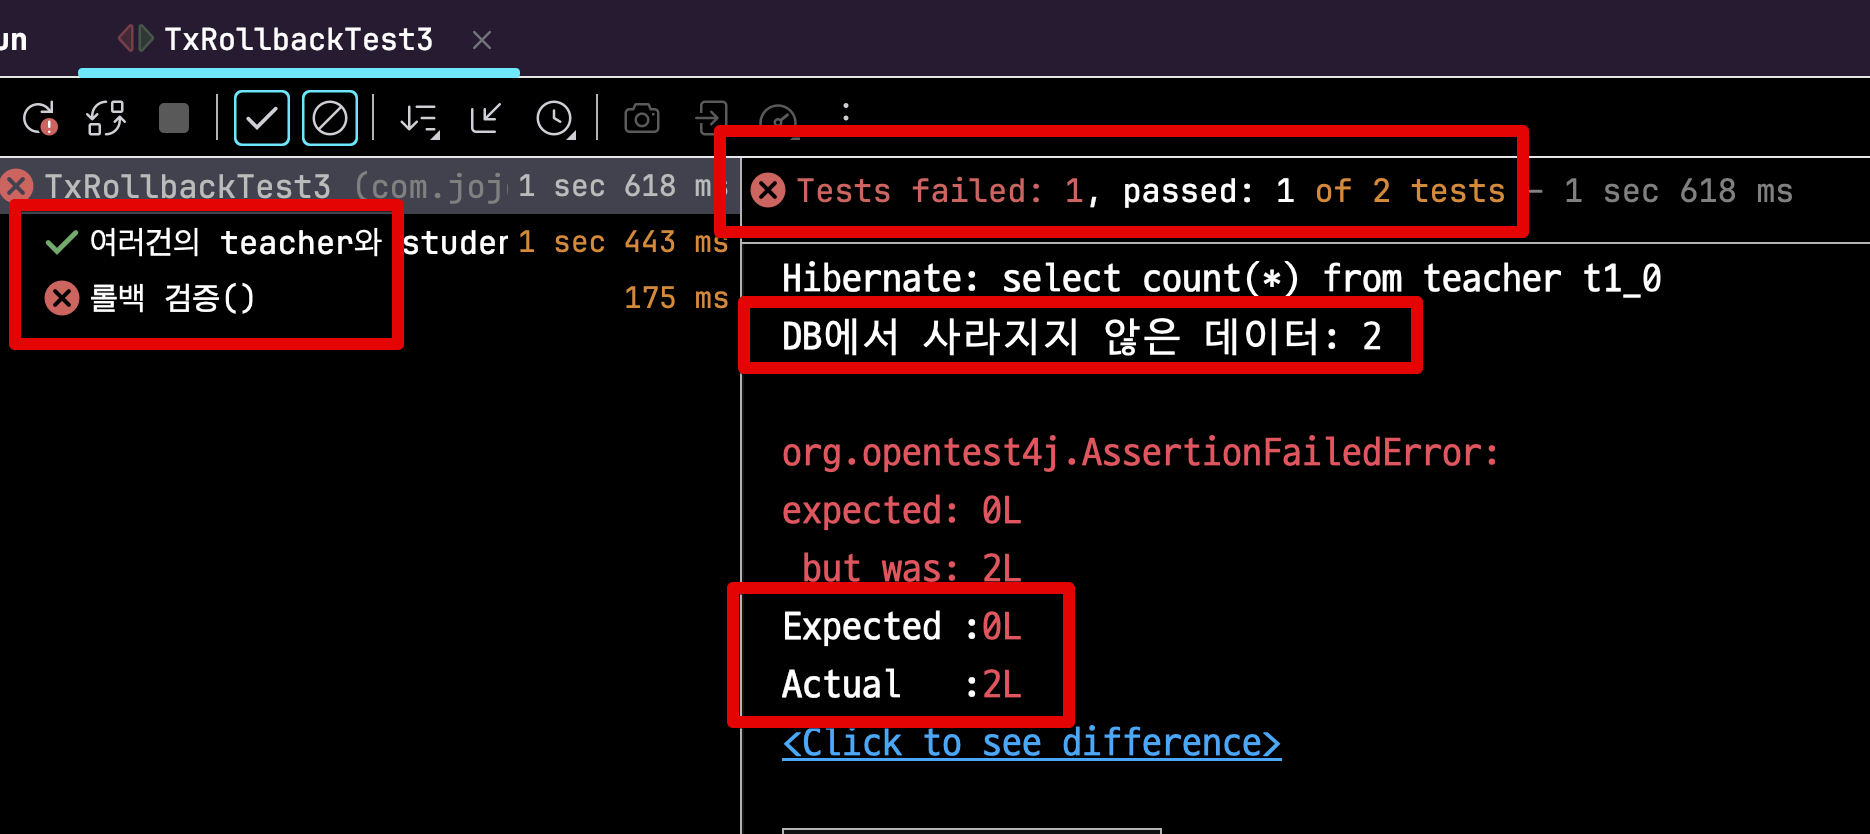
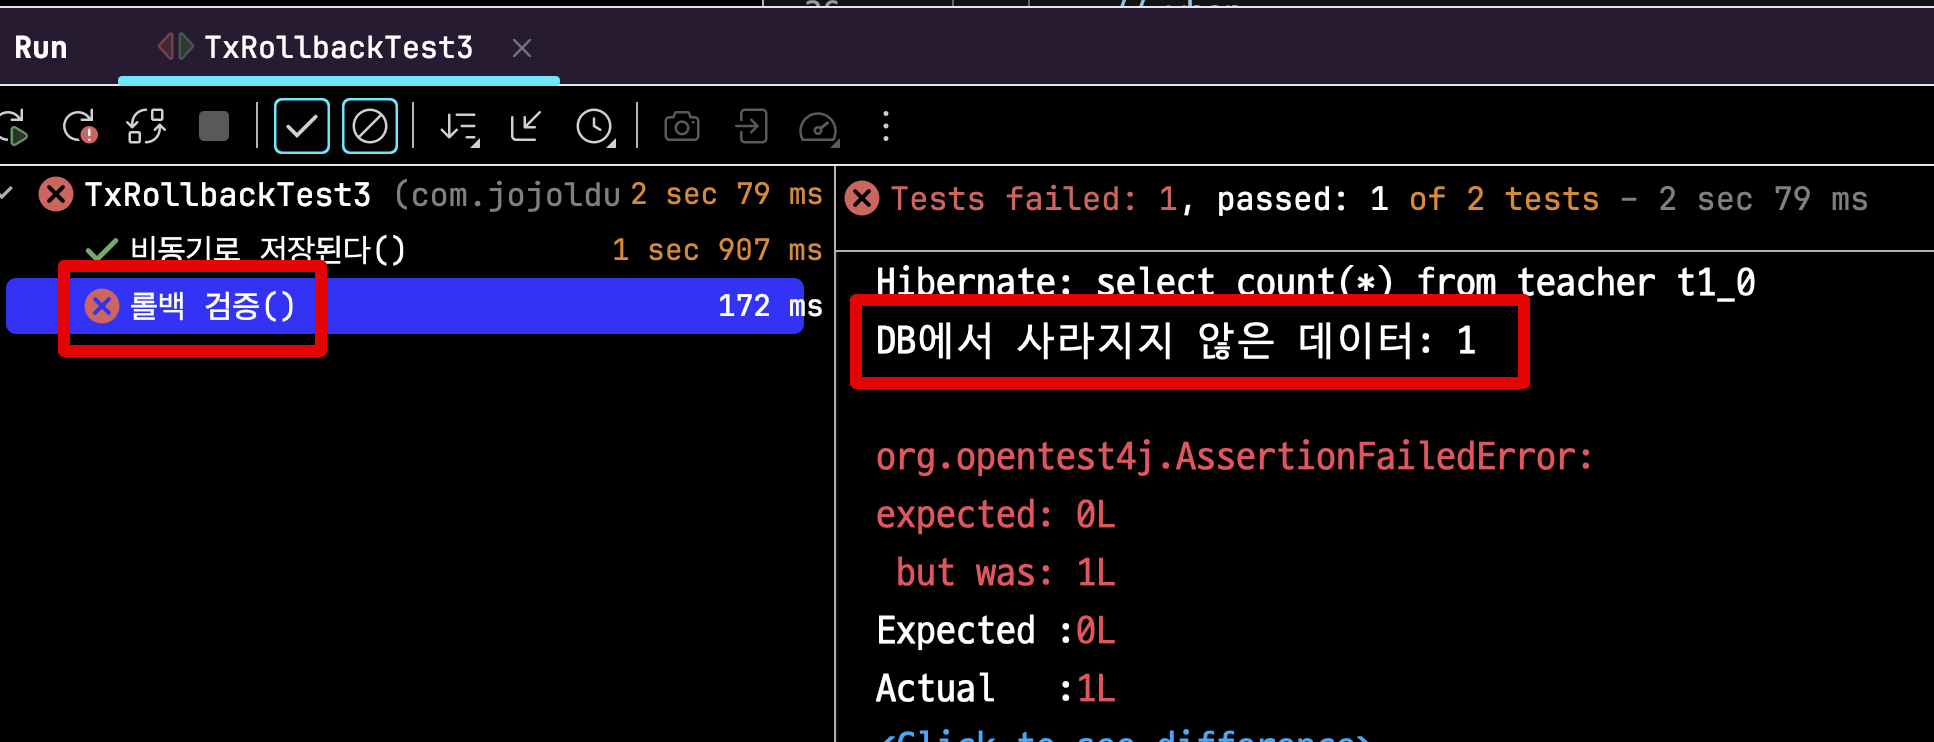
예제 코드 다듬기

Changed region(s): [[0.0, 0.0, 1.0, 0.558], [0.3722, 0.5889, 0.8374, 1.0]]

diff --git a/src/test/kotlin/com/jojoldu/testinaction/service/teacher/TxRollbackTest1.kt b/src/test/kotlin/com/jojoldu/testinaction/service/teacher/TxRollbackTest1.kt
@@ -3,7 +3,6 @@ package com.jojoldu.testinaction.service.teacher
 import com.jojoldu.testinaction.entity.teacher.Student
 import com.jojoldu.testinaction.entity.teacher.Teacher
 import com.jojoldu.testinaction.entity.teacher.TeacherRepository
-import com.jojoldu.testinaction.service.teacher.NoTxTeacherService
 import org.assertj.core.api.Assertions.assertThat
 import org.junit.jupiter.api.Test
 import org.springframework.beans.factory.annotation.Autowired

diff --git a/src/test/kotlin/com/jojoldu/testinaction/service/teacher/OriginalTest3.kt b/src/test/kotlin/com/jojoldu/testinaction/service/teacher/OriginalTest3.kt
@@ -8,7 +8,6 @@ import org.assertj.core.api.Assertions.assertThat
 import org.junit.jupiter.api.*
 import org.springframework.beans.factory.annotation.Autowired
 import org.springframework.boot.test.context.SpringBootTest
-import org.springframework.transaction.annotation.Transactional
 
 @TestMethodOrder(
     MethodOrderer.OrderAnnotation::class)
@@ -53,5 +52,4 @@ class OriginalTest3 {
 
         assertThat(count).isEqualTo(0)
     }
-
 }

diff --git a/posts/tx_annotation_in_test/README.md b/posts/tx_annotation_in_test/README.md
@@ -11,18 +11,17 @@
 
 마침 페이스북에 태깅되기도 했고 (ㅠㅠ)  
 과거에 라이브 방송에서도 "향로님은 반대한다" 라고 언급되기도 했었다.  
-(실제로 난 선호하지 않는다..)  
+(반대하는 것은 사실이기도 하고..)    
   
-내 생각을 정리해야지 해야지 하다가,  
-마침 이번주에 시간이 되어서 정리하게 되었다.  
+내 생각을 정리해야지 해야지 하다가, 마침 이번주에 시간이 되어서 정리하게 되었다.  
   
 ## 1. Spring Team은?
 
 내 의견을 정리하기 전에,  
-먼저 Spring Team 의 의견을 살펴보자.  
+먼저 Spring Team 의 코드를 살펴보자.  
   
-인프라스트럭쳐 계층 (데이터베이스) 테스트를 작성하는 팀의 코드를 보면 될 것 같아서 Spring Data JPA 팀의 코드를 확인해보자.  
-그럼 아래와 같이 `@Transactional` 을 테스트 코드에서 사용하고 있는 것을 볼 수 있다.  
+인프라스트럭쳐 계층 (데이터베이스) 테스트를 작성하는 팀의 코드를 보면 될 것 같아서 Spring Data JPA 팀의 코드를 찾아보면,  
+아래와 같이 `@Transactional` 을 테스트 코드에서 사용하고 있는 것을 볼 수 있다.  
 
 ![spring-team](./images/spring-team.png)
 
@@ -35,17 +34,100 @@
 ## 2. 반대하는 이유
 
 그럼 나는 왜 반대할까?  
-테스트 코드에서 `@Transactional` 을 사용할때 발생하는 문제점들을 알아보자.
+테스트 코드에서 `@Transactional` 을 테스트 데이터 초기화 용도로 사용할때 발생하는 문제점들을 알아보자.
+
+> 모든 코드는 [Github](https://github.com/jojoldu/spring-boot-kotlin-test-in-action/tree/master/src/test/kotlin/com/jojoldu/testinaction/service/teacher) 에 있다.
 
 ### 1. 의도치 않은 트랜잭션 적용
 
 너무 유명한 사례인, "의도치 않은 트랜잭션 적용" 이 있다.  
+예를 들어 아래 코드는 
+- 실제 코드에서는 `@Transacational` 이 누락되어있으며
+- 테스트 코드에서는 데이터 초기화를 위해 `@Transacational` 이 포함되어있다.
+
+![code1](./images/code1.png)
+
+이럴 경우 테스트 컨텍스트에서는 트랜잭션이 있어 테스트는 통과한다.  
+
+![result1_1](./images/result1_1.png)
+
+반면 트랜잭션이 없으니 당연하지만 **실제 실행시에는 오류가 발생**한다.  
+
+![result1_2](./images/result1_2.png)
+
+물론 요즘의 대부분의 스프링에서의 개발은 Service 클래스에 `@Transacational(readOnly=true)` 를 기본적으로 선언해서 이렇게 ORM 에서 발생할만한 여지를 최소화하고 있다.  
+  
+그래서 팀의 규칙만 잘 정한다면 해당 이슈가 발생할만한 여지가 거의 없다.  
+그렇지만, 실제 환경과 테스트 환경의 불일치로 정확한 테스트가 되지 않고 놓치는 부분이 발생할 수 있다는 것 역시 사실이다.
 
 ### 2. 트랜잭션 전파 속성을 조절한 테스트 롤백 실패
+
+또 다른 경우로는 트랜잭션 전파 레벨을 수정해서 **새로운 트랜잭션이 필요한 경우 롤백이 되지 않는 것**이 있다.  
+  
+예를 들어 다음과 같이 기본 전파 레벨인 `REQUIRED` 가 아닌 `REQUIRES_NEW` 가 필요한 비즈니스 상황이 있다고 가정해보자.  
+
+```kotlin
+    @Transactional(propagation = Propagation.REQUIRES_NEW)
+    fun saveAllNew (teachers: List<Teacher>) : Int {
+        return teacherRepository.saveAll(teachers).size
+    }
+```
+
+정상적으로 롤백 되었는지 확인하기 위해 **다음 테스트에서 데이터베이스가 비어있는지** 확인해본다.  
+
 
 
 ### 3. 비동기 메서드 테스트 롤백 실패
 
+```kotlin
+@TestMethodOrder(
+    MethodOrderer.OrderAnnotation::class)
+@SpringBootTest // 트랜잭션 제거
+class OriginalTest3 {
+
+    @Autowired
+    private lateinit var cleanUp: CleanUp
+
+    @Autowired
+    private lateinit var teacherService: NoTxTeacherService
+
+    @Autowired
+    private lateinit var teacherRepository: TeacherRepository
+
+    // 명시적 초기화
+    @AfterEach
+    fun tearDown() {
+        cleanUp.all()
+    }
+
+    @Test
+    @Order(1)
+    fun `비동기로 저장된다`() {
+        // given
+        val email = "jojoldu@gmail.com"
+        val teacher = Teacher(name = "jojoldu", email = email)
+        teacher.addStudent(Student(name = "John", email = "John@gmail.com", teacher = teacher))
+        teacher.addStudent(Student(name = "Jane", email = "Jane@gmail.com", teacher = teacher))
+
+        // when
+        val futureResult = teacherService.asyncSave(teacher)
+        val result = futureResult.get()
+
+        assertThat(result).isEqualTo(email)
+    }
+
+    @Test
+    @Order(2)
+    fun `롤백 검증`() {
+        val count = teacherRepository.count()
+        println("DB에서 사라지지 않은 데이터: $count")
+
+        assertThat(count).isEqualTo(0)
+    }
+}
+```
+
+![result]
 ### 4. TransactionalEventListener 동작 실패
 
 
@@ -65,7 +147,10 @@ BB 상황에서는 YY로 해야한다 등의 규칙을 만들면
 그래서 최대한 간단하게, 모두가 이해할 수 있는 수준으로 설정해왔다.  
   
 팀 마다 추구하는 방향성이 다르지만,  
-나 같은 경우는 위와 같은 기준으로 항상 **테스트 코드에서 `@Transactional` 을 사용하지 않는 것을 권장한다**.
+나 같은 경우는 위와 같은 기준으로 항상 **테스트 코드에서 `@Transactional` 을 사용하지 않는 것을 권장한다**.  
+
+> 같은 이유로 `@DataJpaTest` 를 권장하지 않는다.  
+> 내부적으로 `@Transactional` 을 선언하고 있기 때문이다.
 
 ## 번외 - 테스트 데이터 초기화
 

diff --git a/README.md b/README.md
@@ -1,0 +1,2 @@
+# Collection of Test Code Examples Based on Spring Boot, Kotlin, and JUnit
+
